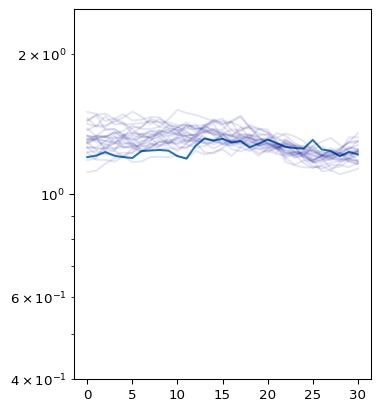
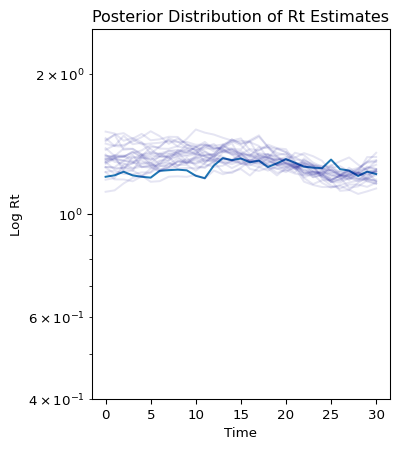
first pass full documentation

diff --git a/model/docs/getting-started.md b/model/docs/getting-started.md
@@ -241,7 +241,7 @@ model1.run(
 ```
 
 Now, let’s investigate the output, particularly the posterior
-distribution of the Rt estimates:
+distribution of the $R_t$ estimates:
 
 ``` python
 import polars as pl
@@ -250,6 +250,9 @@ samps = model1.spread_draws([('Rt', 'time')])
 fig, ax = plt.subplots(figsize=[4, 5])
 
 ax.plot(sim_data[0])
+ax.set_title('Posterior Distribution of Rt Estimates')
+ax.set_xlabel('Time')
+ax.set_ylabel('Log Rt')
 samp_ids = np.random.randint(size=25, low=0, high=999)
 for samp_id in samp_ids:
     sub_samps = samps.filter(pl.col("draw") == samp_id).sort(pl.col('time'))
@@ -268,8 +271,8 @@ distribution](getting-started_files/figure-commonmark/output-rt-output-1.png)
 `pyrenew` leverages `numpyro`’s flexibility to build models via
 composition. As a principle, most objects in `pyrenew` can be treated as
 random variables we can sample. At the top-level `pyrenew` has two
-metaclass from which most objects inherit: `RandomVariable` and `Model`.
-From them, the following four sub-modules arise:
+metaclasses from which most objects inherit: `RandomVariable` and
+`Model`. From them, the following four sub-modules arise:
 
 - The `process` sub-module,
 - The `deterministic` sub-module,
@@ -279,7 +282,7 @@ From them, the following four sub-modules arise:
 
 The first four are collections of instances of `RandomVariable`, and the
 last is a collection of instances of `Model`. The following diagram
-shows a detailed view of how meta classes, modules, and classes interact
+shows a detailed view of how metaclasses, modules, and classes interact
 to create the `RtInfectionsRenewalModel` instantiated in the previous
 section:
 
